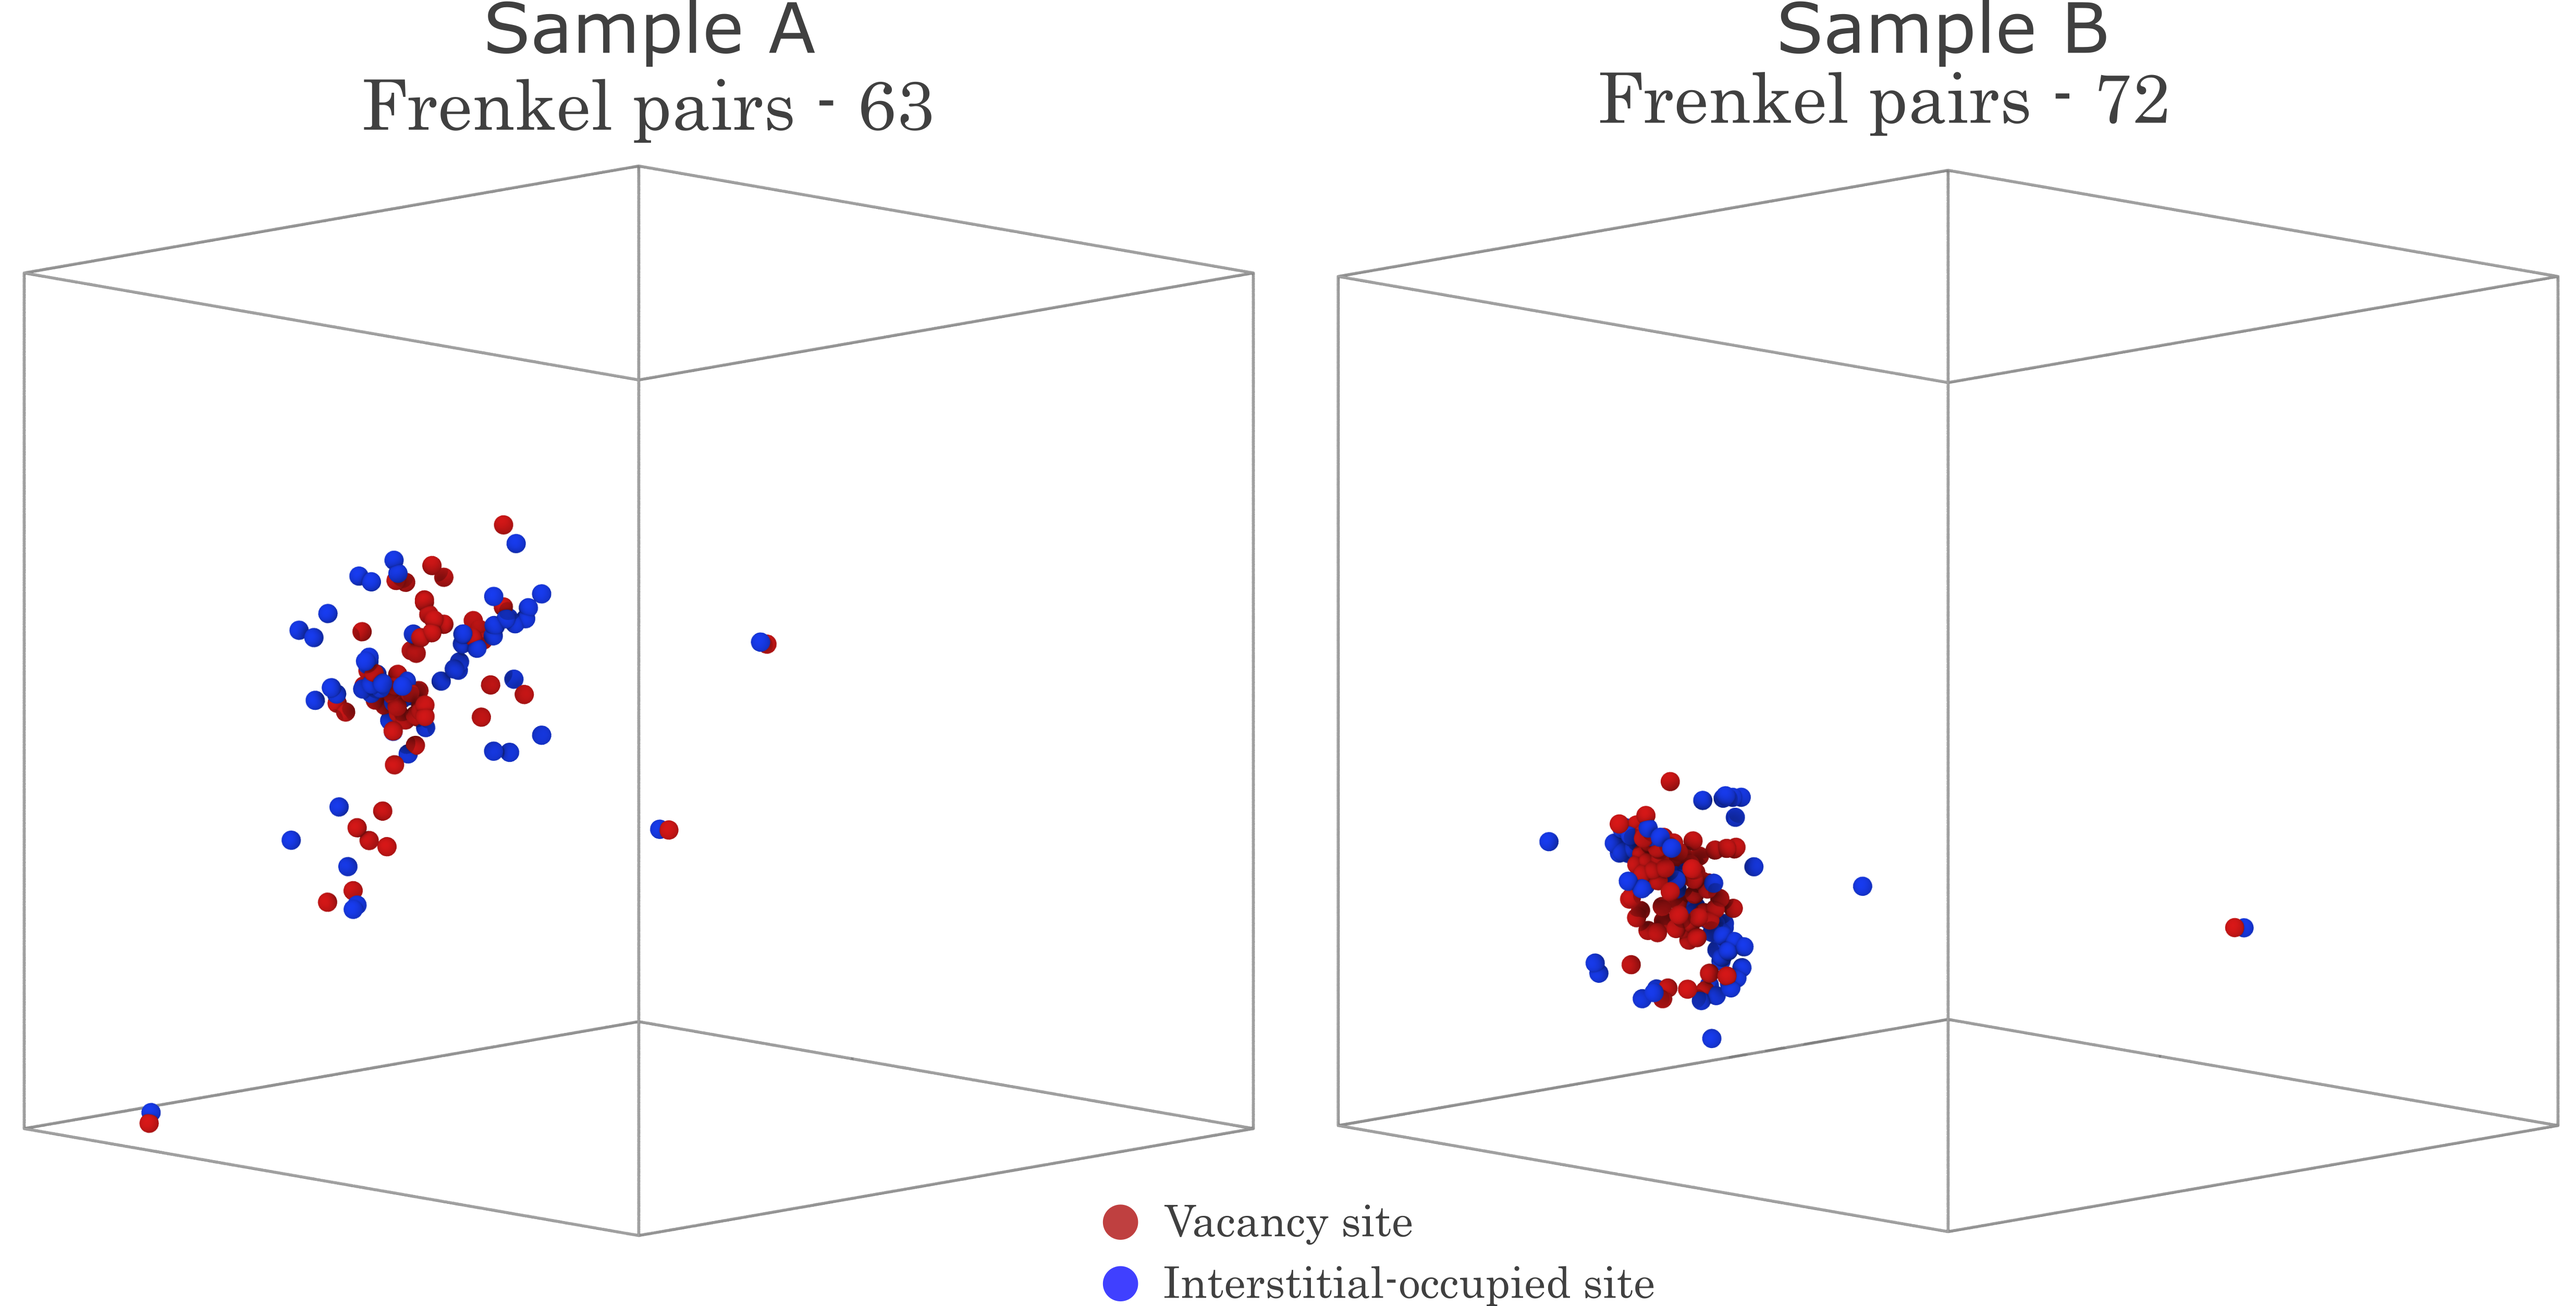
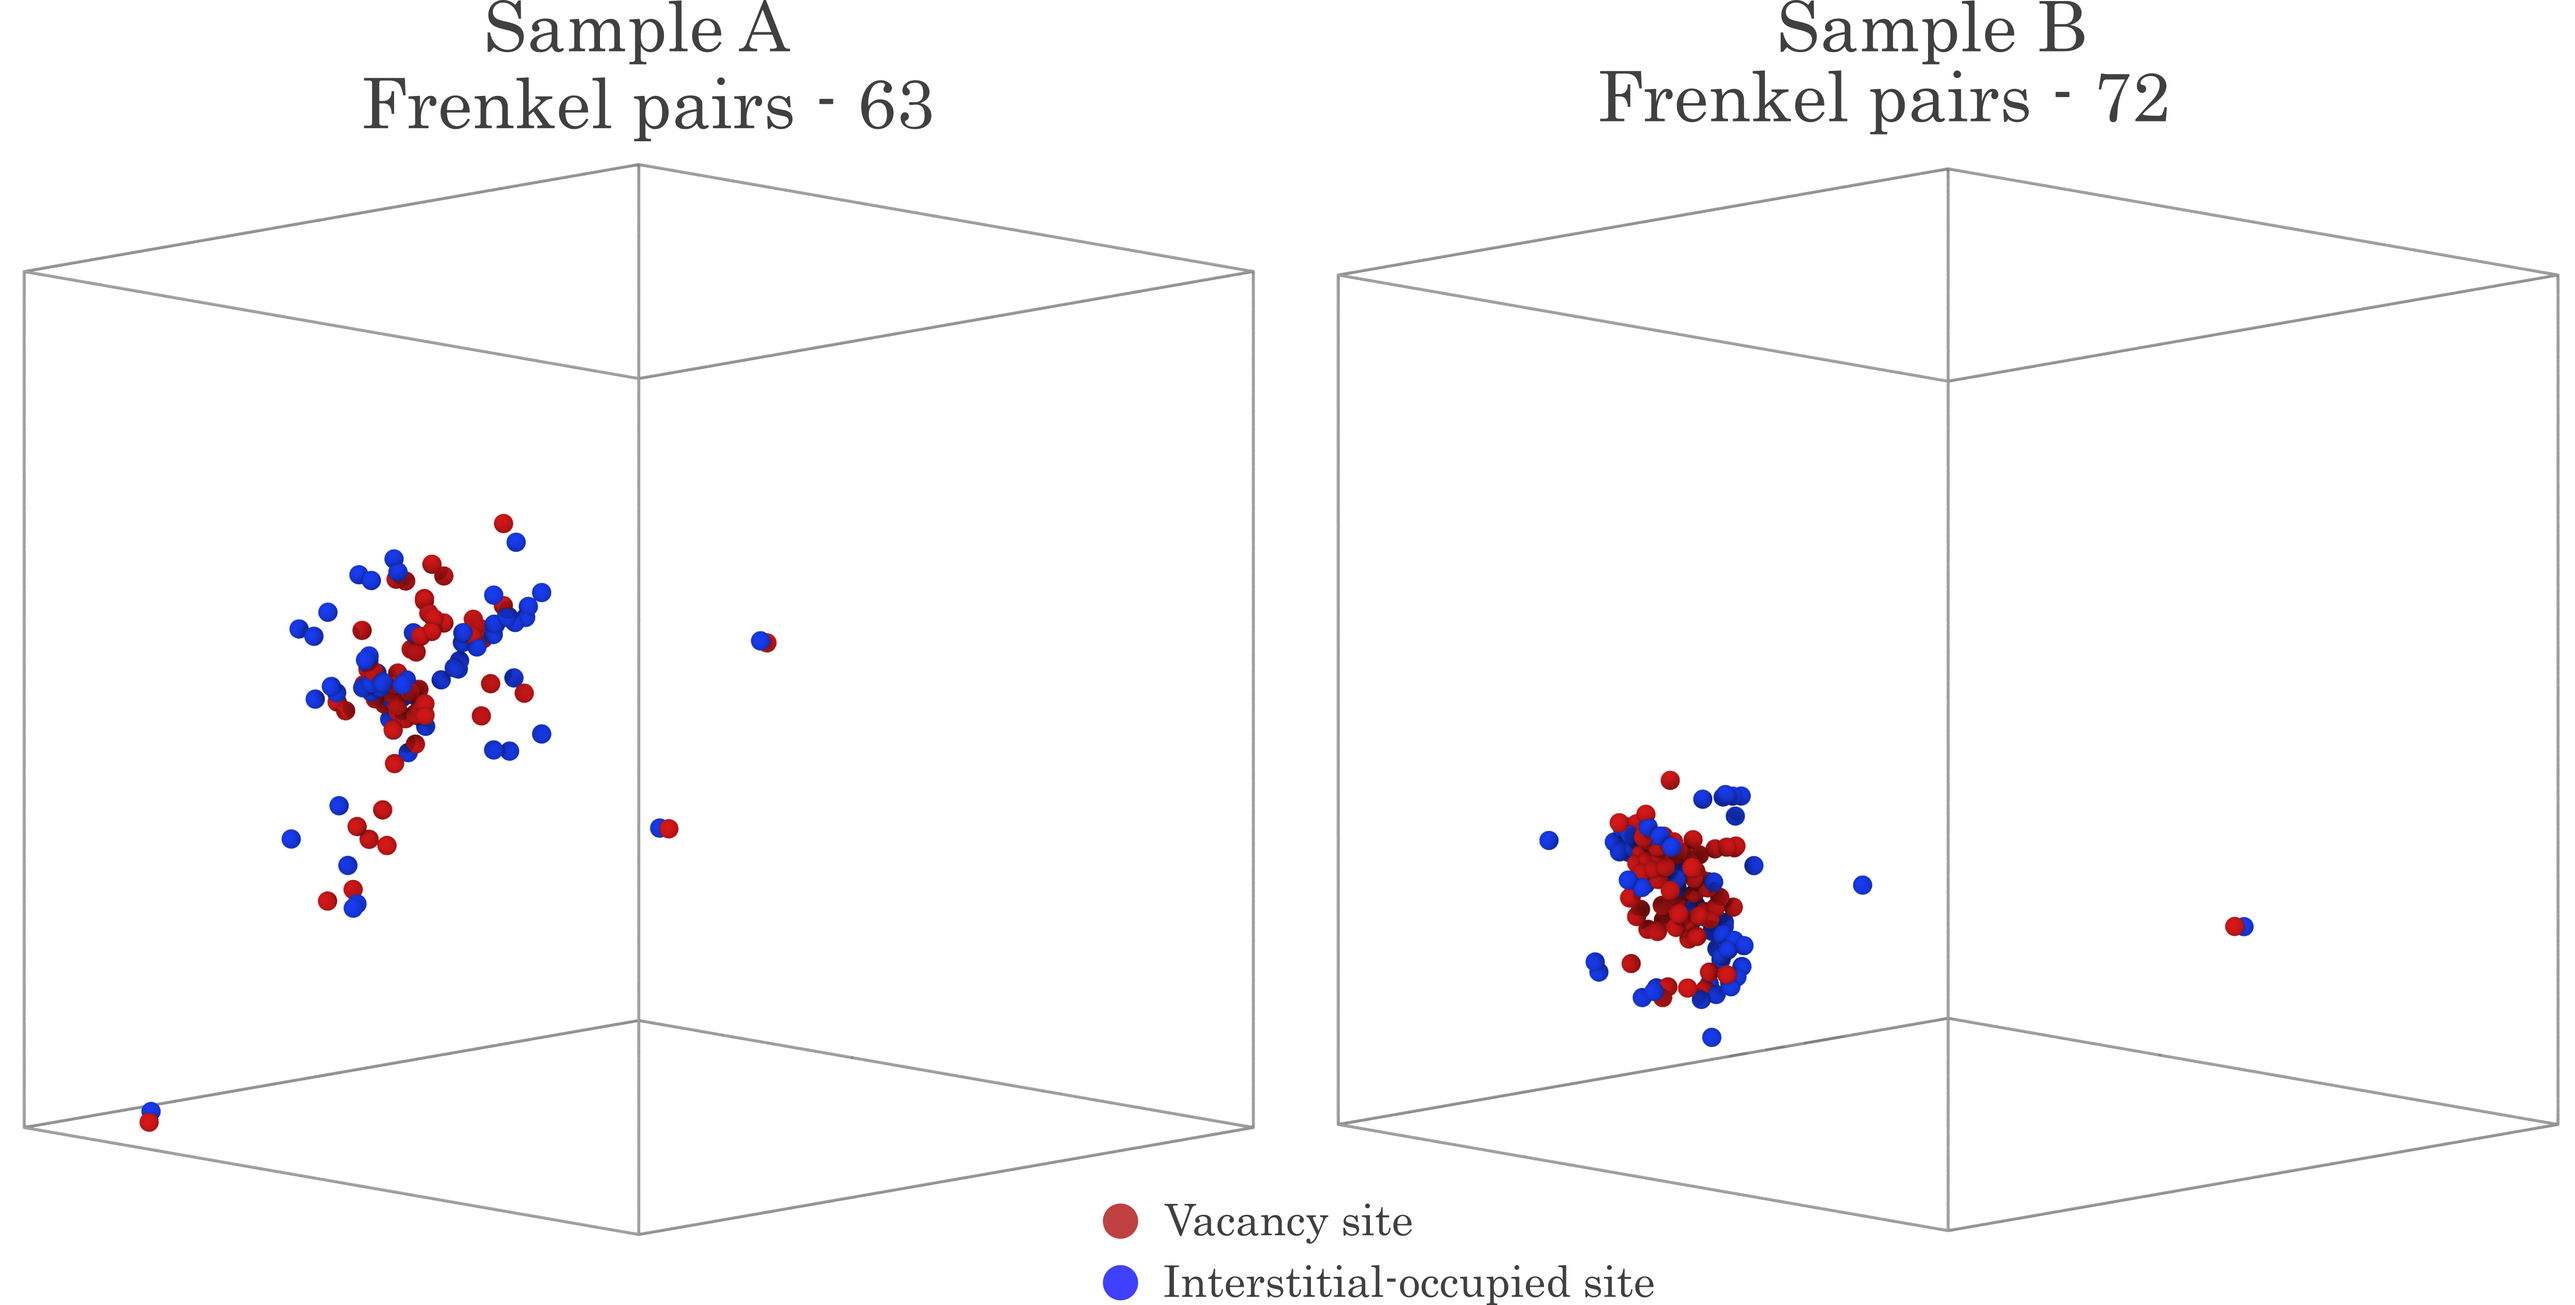
fig alignment check

diff --git a/_pages/research.md b/_pages/research.md
@@ -41,9 +41,9 @@ author_profile: true
     <img src="{{ site.baseurl }}/assets/images/Masters/Sample_A_CNA.png"
          alt="CNA analysis of Sample A"
          style="width: 100%; height: auto;">
-    <figcaption class="center-caption" style="text-align: center;">
-      (a) CNA analysis of Sample A
-    </figcaption>
+        <figcaption style="text-align: center !important; width: 100%;">
+        (a) CNA analysis of Sample A
+        </figcaption>
   </figure>
 
   <!-- (b) -->
@@ -106,7 +106,7 @@ author_profile: true
          alt="Wigner-Seitz defect sites in Samples A and B"
          style="width: 100%; height: auto;">
     <figcaption class="center-caption" style="text-align: center;">
-      (f) Wigner-Seitz defect sites in Samples A and B
+      (f) Wigner-Seitz defect distributions for a representative cascade in Sample A and B
     </figcaption>
   </figure>
 
